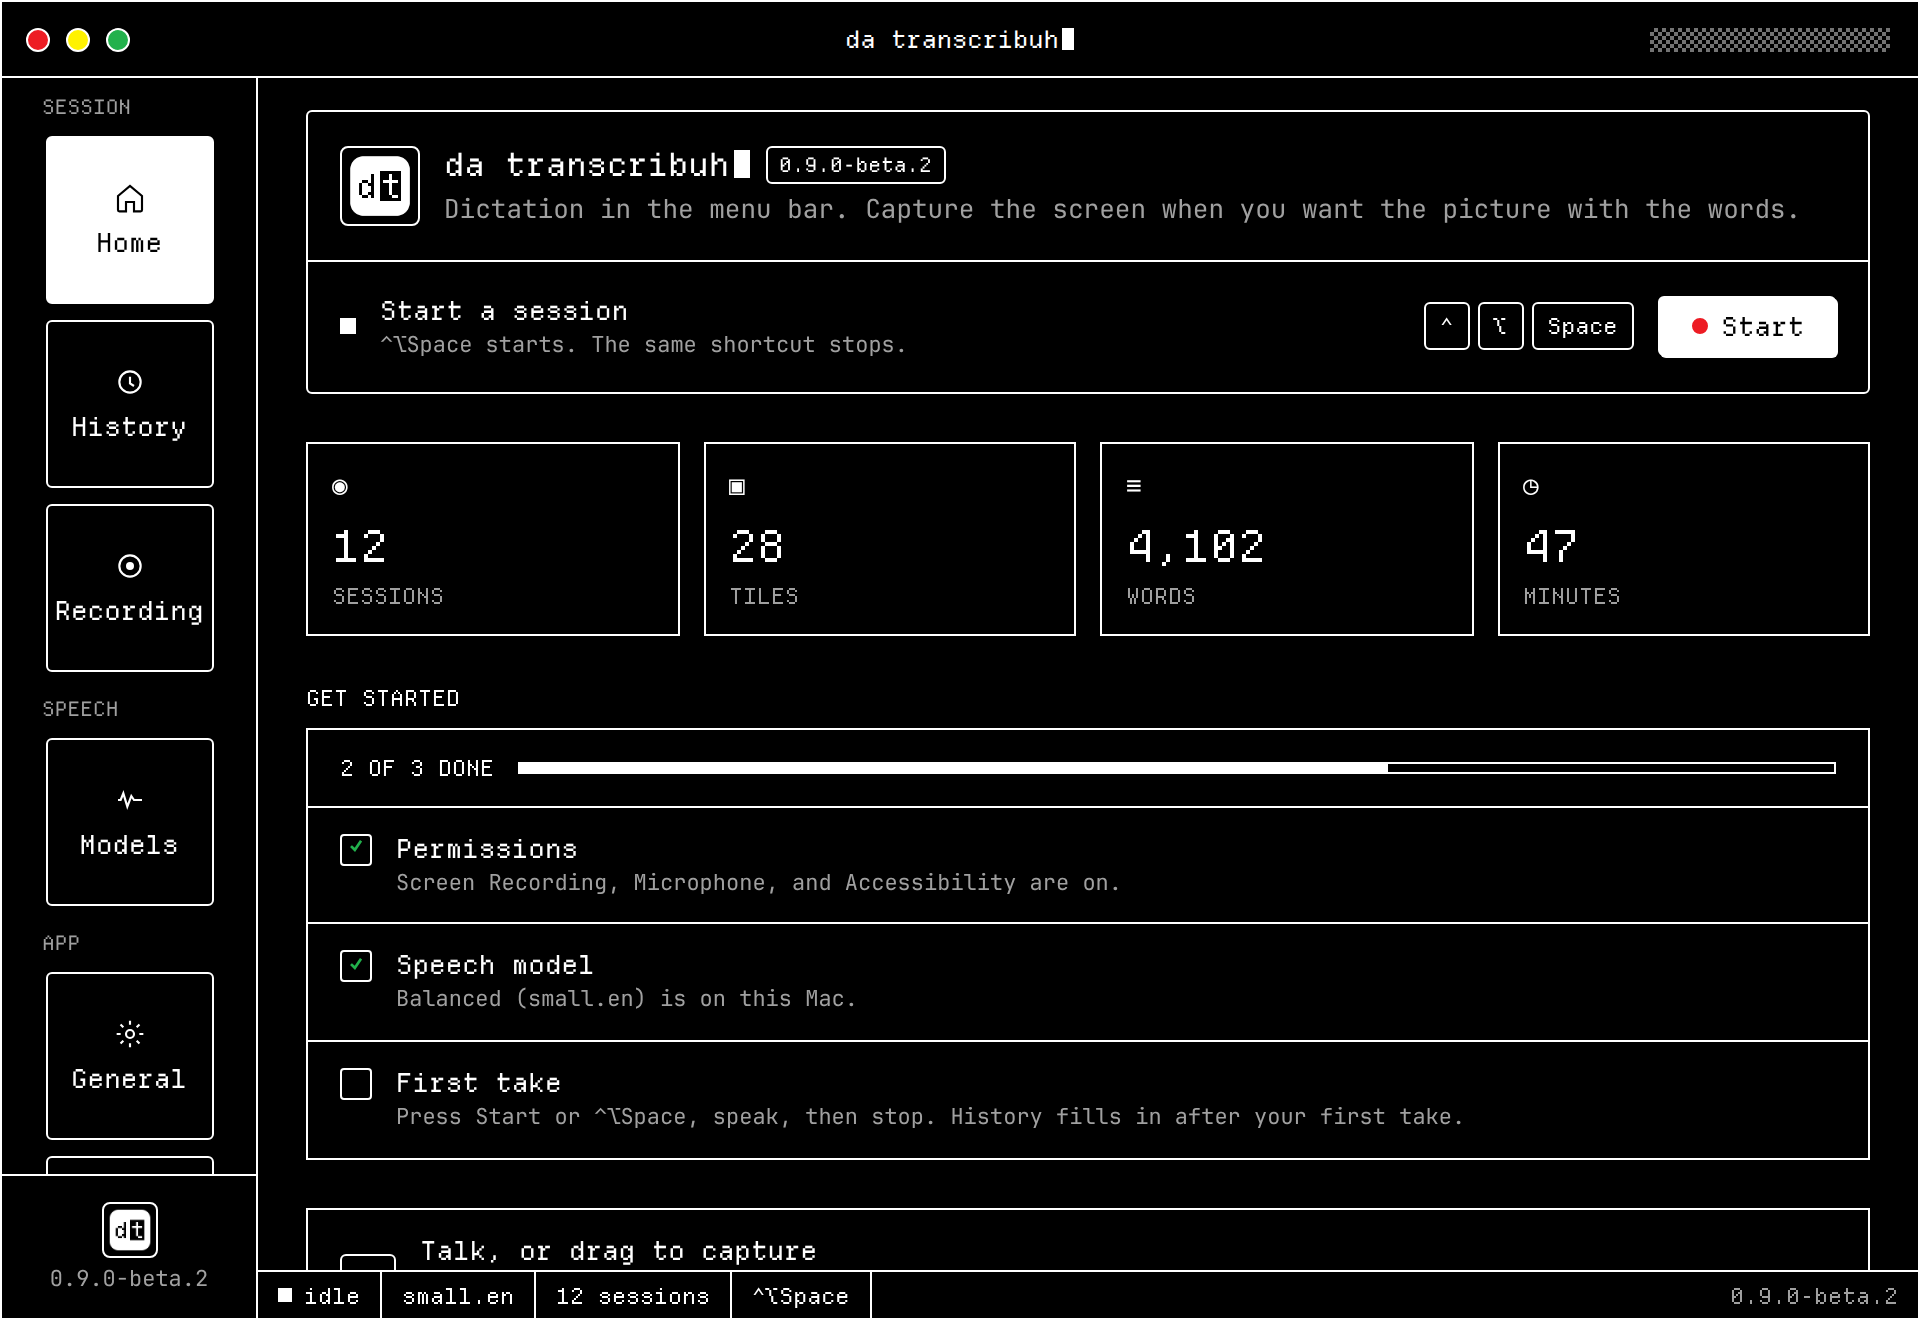
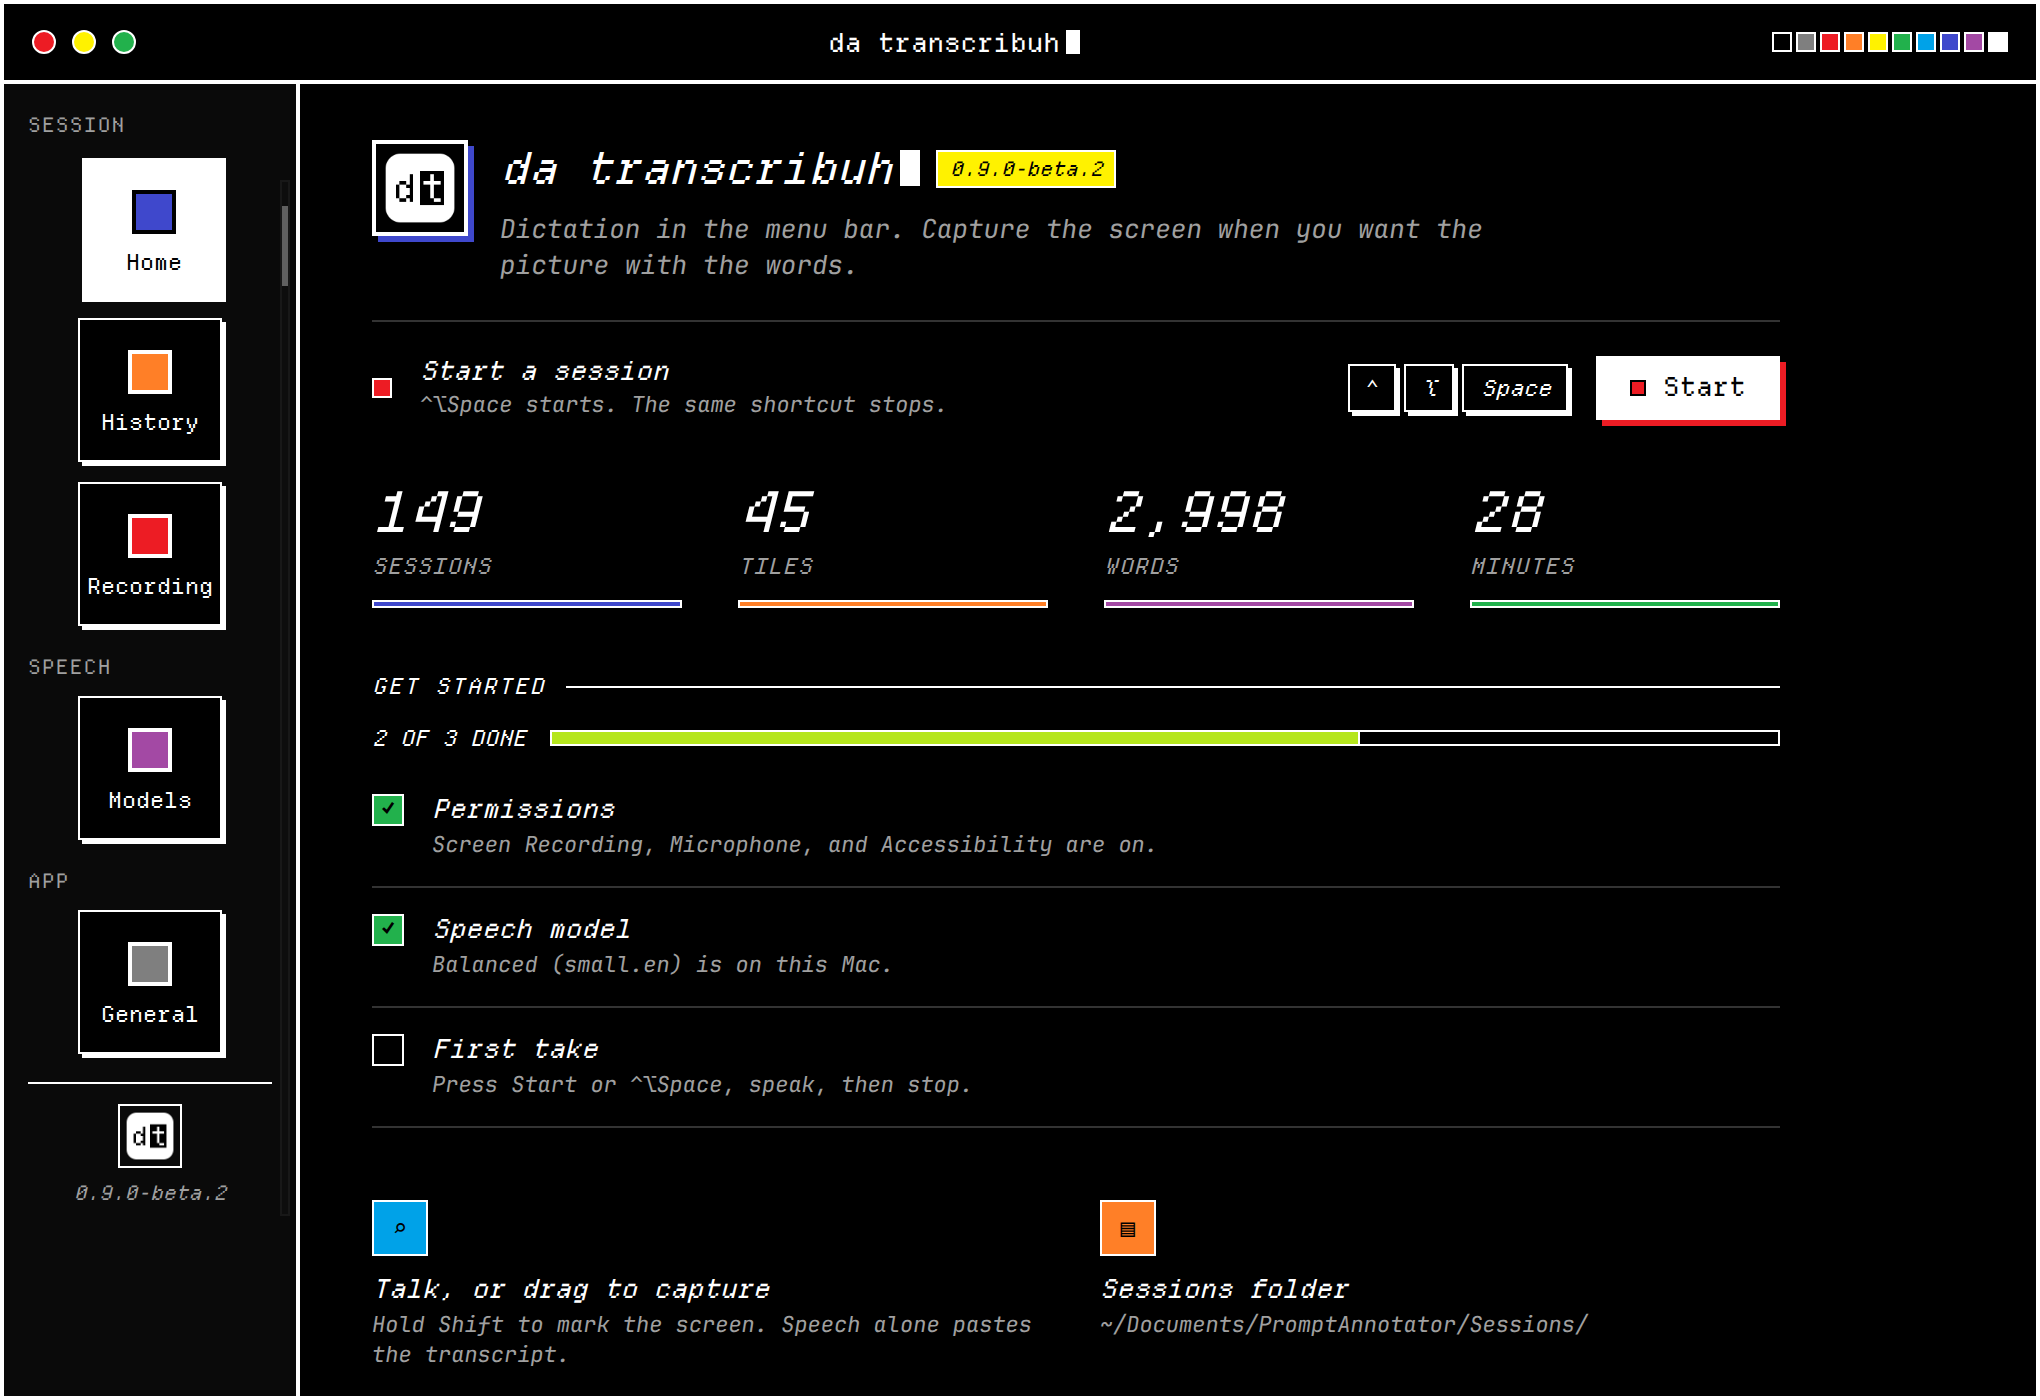
docs: Paint look copy, AUDIT_LOG Run 25, refresh README screenshots
Point README/AGENTS at the full Paint reskin and sync screenshots from
the locked mocks.

diff --git a/README.md b/README.md
@@ -25,9 +25,9 @@
 
 ## look
 
-black and white chrome with a tiny bit of classic ms paint. departure mono for labels and chrome, sf mono for longer copy. custom scroll bars. system / light / dark from general (or cycle `theme: …` in the menu bar). the recording island, waveform, and annotate toolbar match the same ink — not a leftover overlay.
+ms paint vibes — flat classic swatches, chunky 1–2px outlines, hard offset shadows, and a toolbox sidebar. departure mono for every “da transcribuh” wordmark and chrome label; sf mono for longer copy. custom thin scrollers. system / light / dark from general (or cycle `theme: …` in the menu bar).
 
-paint shows up only where it helps: traffic-light dots when the window is key (`#ED1C24` / `#FFF200` / `#22B14C`), the record mark, and a green check when something’s actually done.
+backgrounds stay white or black. color lives in the palette strip, tool chips, progress, meters, traffic lights, the record mark, and paint-green checks. airy margins, fewer boxed cards.
 
 <p align="center">
   <picture>
@@ -112,6 +112,7 @@ final **dt block** art lives in [`assets/brand/`](assets/brand/):
 - `readme-banner.png` — hero (paint traffic lights on the session window mock)
 - `social-preview.png` (1280×640) — repo social preview; also mirrored as `social-preview-1280x640.png` / `@2x`
 - `screenshots/settings-home-light.png` / `settings-home-dark.png` — settings home mocks for the readme
+- `mocks/home-paint-light.png` / `home-paint-dark.png` — Paint-direction lock mocks
 - `menubar-g-dt-block-16.png` / `menubar-g-dt-block-32.png` — template menu-bar glyph
 
 patrick: upload `assets/brand/social-preview.png` under the repo’s **settings → general → social preview** at launch (repo stays private until then). that part isn’t settable from here.

diff --git a/AUDIT_LOG.md b/AUDIT_LOG.md
@@ -6,7 +6,15 @@ Branch: `overnight-audit` (from `main`). Linux VM — no Xcode build. Changes ke
 
 ---
 
-## Final summary (Runs 1–24)
+## Final summary (Runs 1–25)
+
+### Run 25 — Departure Mono fix + full MS Paint reskin
+
+- **Font bug (P0):** `InkFontRegistrar` CTFontManager-registers every bundled `.otf` at launch; logs success/failure; `Ink.mono()` tries PostScript `DepartureMono-Regular` then family names, else **system monospaced only** (never proportional). `ATSApplicationFontsPath=Fonts` kept.
+- **Direction lock:** `assets/brand/mocks/home-paint-{light,dark}.png` — airy Home + Paint toolbox sidebar + palette strip.
+- **Paint chrome:** expanded 16-swatch palette, per-page tool accents, thicker outlines, airier spacing (`pageSide` 36, `sectionGap` 32, sidebar 148 / tile 72 / icon 28), thin hover scroller (5pt), solid paint-green checks, title + status palette strips.
+- **Home:** unboxed stats with color rules; hero with yellow version badge + red Start shadow; tip columns with color chips.
+- Menu panel wordmark + swatches; markup toolbar hard shadow; island 1.5px outline. README screenshots refreshed from mocks.
 
 ### Run 24 — Layout elevation (terminal History, Paint onboarding rail, page headers)
 

diff --git a/AGENTS.md b/AGENTS.md
@@ -6,7 +6,7 @@ Branch discipline: work on `overnight-audit` only. Never ship or merge `promo-vi
 
 Settings, onboarding, and the menu-bar panel share the **Ink** B/W design system (`PromptAnnotator/Settings/Ink/`).
 
-The **recording island**, **live waveform**, **markup/annotate toolbar**, and **selection overlay** are also B/W-reskinned to match that system (Run 20). Keep layout, sizes, animations, hit targets, and annotation ink colors intact — change visual treatment only (fills, 1px outlines, small radii, hard offset shadows, Departure Mono / SF Mono tokens). Do not add timers or heavy per-frame effects to the waveform/overlay path.
+The whole app is an **MS Paint** theme (Run 24+): toolbox sidebar, flat classic swatches, chunky outlines, hard shadows, Departure Mono chrome. The **recording island**, **waveform**, **markup toolbar**, and **selection overlay** share that language. Keep hit targets, animations, and annotation ink colors intact; do not add timers or heavy per-frame effects to the waveform/overlay path.
 
 ## Typography
 
